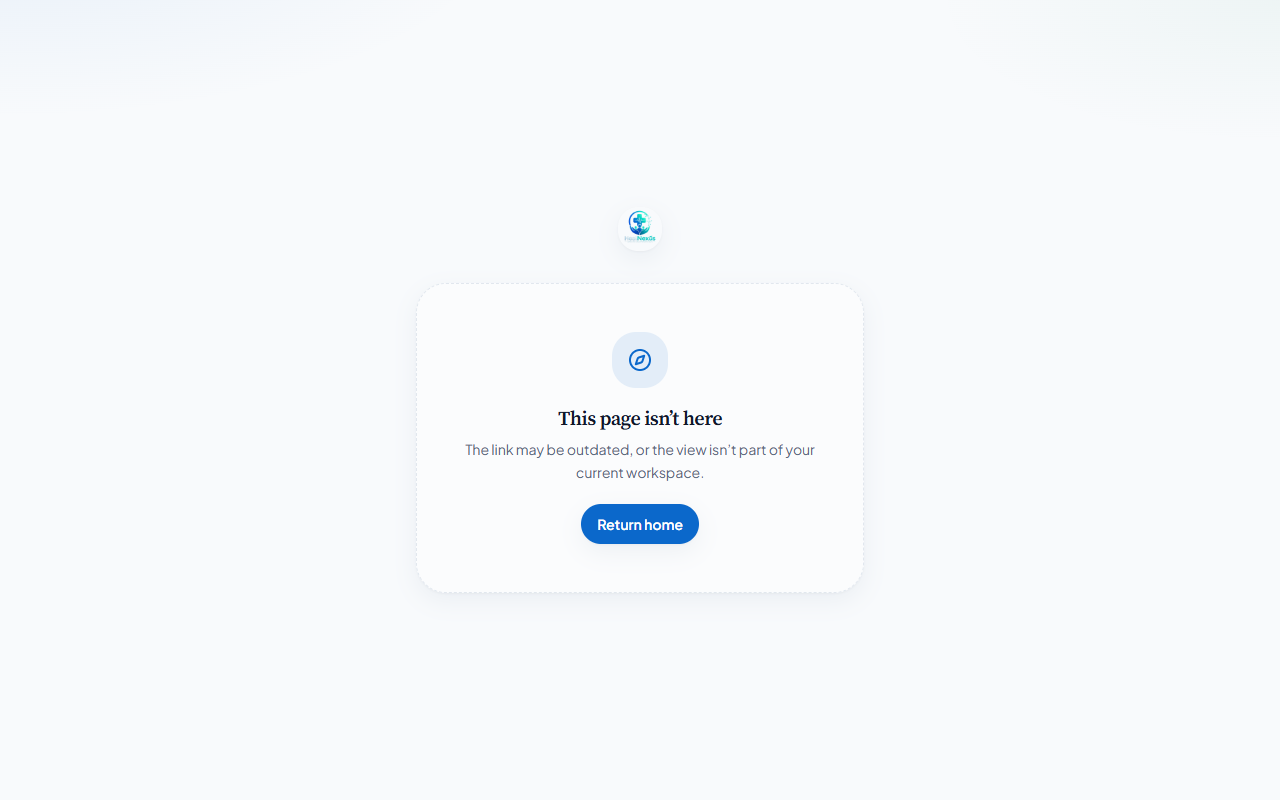
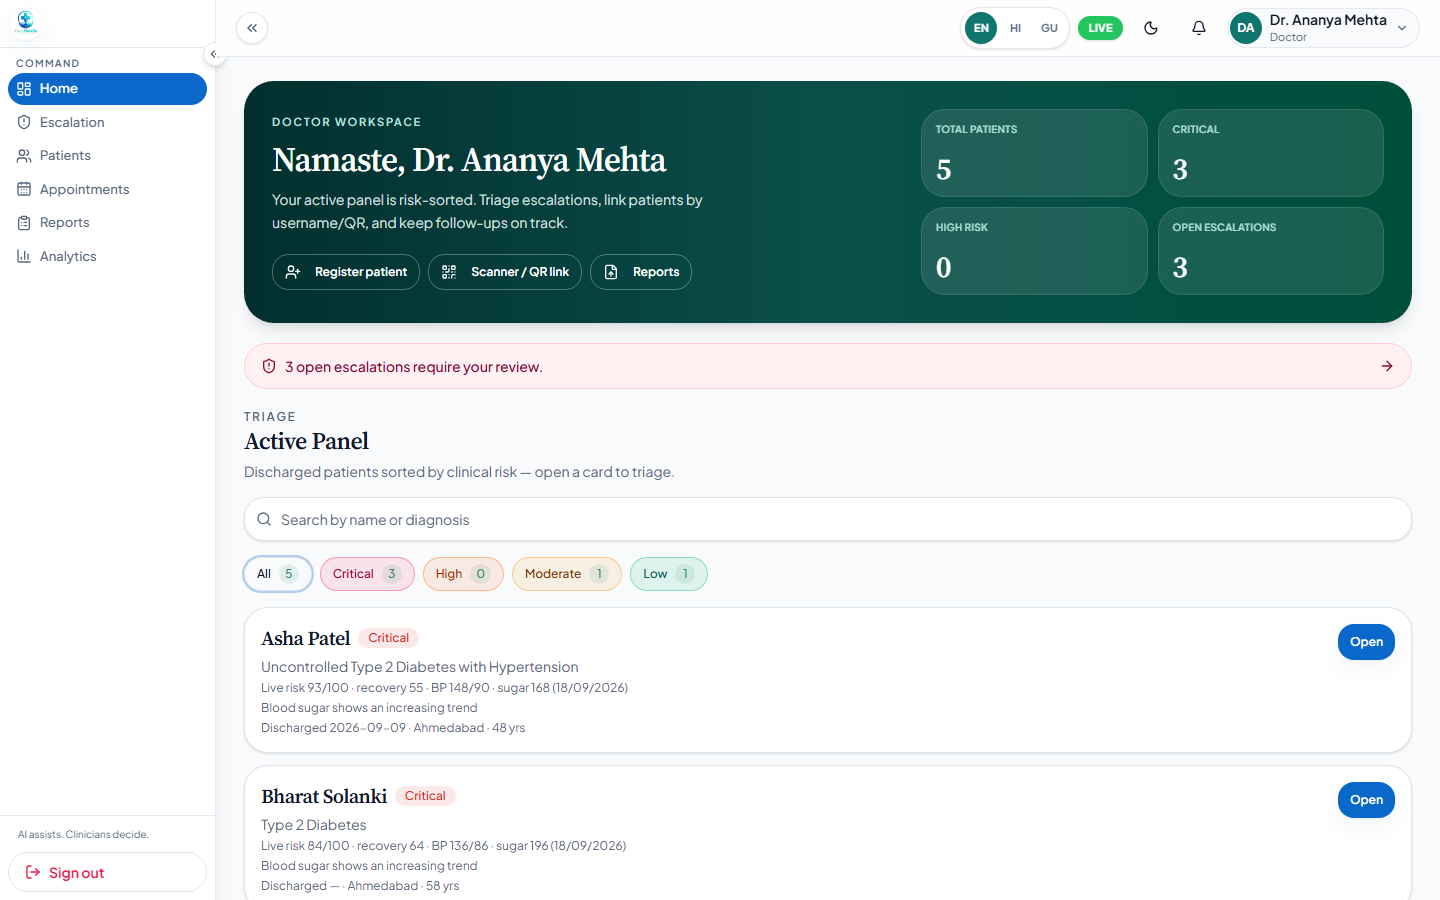
Refactor: Update healthcare UI assets, README, and pricing styles

diff --git a/webapp/src/modules/marketing/components/pricing.tsx b/webapp/src/modules/marketing/components/pricing.tsx
@@ -115,14 +115,14 @@ export function PricingSection() {
         <div className="pointer-events-none absolute inset-0 bg-[radial-gradient(ellipse_70%_50%_at_15%_-10%,rgba(37,99,235,0.12),transparent_55%),radial-gradient(ellipse_50%_40%_at_90%_0%,rgba(20,184,166,0.10),transparent_50%)]" />
         <div className="relative mx-auto max-w-6xl px-4 text-center sm:px-6">
           <p className="text-xs font-semibold uppercase tracking-[0.16em] text-[#14B8A6]">
-            Healthcare continuity should be accessible to everyone.
+            Every home, every village.
           </p>
           <h1 className="font-display mx-auto mt-3 max-w-3xl text-4xl font-bold tracking-tight text-[#0F172A] sm:text-5xl">
-            Healthcare that stays with you.
+            Healthcare that reaches beyond boundaries.
           </h1>
           <p className="mx-auto mt-4 max-w-2xl text-base text-[#64748B] sm:text-lg">
-            Affordable continuity-of-care support for patients, families and
-            healthcare organizations.
+            Affordable continuity-of-care for patients, families, and
+            healthcare organizations — from the ward to the village.
           </p>
           <p className="mx-auto mt-3 max-w-2xl text-sm leading-relaxed text-[#64748B]">
             From daily care and medication reminders to AI-powered assistance

diff --git a/README.md b/README.md
@@ -1,10 +1,12 @@
 <div align="center">
 
+<img src="webapp/public/logo.png" alt="HealNexus" width="88" />
+
 # HealNexus
 
-**Healthcare that stays with you — after discharge.**
+### Healthcare that reaches beyond boundaries.<br/>Every home, every village.
 
-AI-powered continuity of care for patients, families, doctors, and rural health workers.
+From hospitals to homes, cities to villages — one care graph for doctors, patients, caregivers, and rural health workers. **AI assists. Clinicians decide.**
 
 [![TypeScript](https://img.shields.io/badge/TypeScript-3178C6?style=for-the-badge&logo=typescript&logoColor=white)](https://www.typescriptlang.org/)
 [![React](https://img.shields.io/badge/React_19-087EA4?style=for-the-badge&logo=react&logoColor=white)](https://react.dev/)
@@ -12,7 +14,38 @@ AI-powered continuity of care for patients, families, doctors, and rural health 
 [![FastAPI](https://img.shields.io/badge/FastAPI-009688?style=for-the-badge&logo=fastapi&logoColor=white)](https://fastapi.tiangolo.com/)
 [![Python](https://img.shields.io/badge/Python-3776AB?style=for-the-badge&logo=python&logoColor=white)](https://www.python.org/)
 
-[Quick start](#quick-start) · [Demo logins](#five-minute-demo) · [Architecture](#system-architecture) · [Deploy](#deploy) · [Safety](#clinical-safety)
+[![EN · HI · GU](https://img.shields.io/badge/Languages-EN%20·%20HI%20·%20GU-0F766E?style=flat-square)](#features)
+[![Safety](https://img.shields.io/badge/AI-assists%2C%20never%20prescribes-2563EB?style=flat-square)](#clinical-safety)
+[![Demo](https://img.shields.io/badge/Demo-no%20API%20keys%20required-22C55E?style=flat-square)](#five-minute-demo)
+
+**[Quick start](#quick-start)** · **[5-minute demo](#five-minute-demo)** · **[Architecture](#system-architecture)** · **[Deploy](#deploy)**
+
+<br/>
+
+<img src="assets/screenshot-landing.png" alt="HealNexus landing — healthcare that reaches beyond boundaries" width="920" />
+
+<sub>Landing — the same continuity thread from Civil Hospital OPD to a Sanand village home visit.</sub>
+
+<br/>
+
+<table>
+<tr>
+<td width="50%" align="center">
+<img src="assets/screenshot-dashboard.png" alt="Doctor workspace — live risk-sorted Active Panel" />
+<br/>
+<sub><b>Doctor</b> · live risk, recovery, escalations</sub>
+</td>
+<td width="50%" align="center">
+<img src="assets/screenshot-patient.png" alt="Patient Today dashboard" />
+<br/>
+<sub><b>Patient</b> · Today’s care, same scores</sub>
+</td>
+</tr>
+</table>
+
+<img src="assets/screenshot-rural.png" alt="Rural Field Care for health workers" width="920" />
+
+<sub>Field Care — screening, visits, and offline sync. Language lives in the navbar only (EN / HI / GU).</sub>
 
 </div>
 
@@ -27,53 +60,19 @@ This repo is a **working MVP** — not a slide deck. Role portals, live recovery
 
 ---
 
-## Table of contents
+## Why HealNexus
 
-1. [Problem](#problem)
-2. [Solution](#solution)
-3. [Features](#features)
-4. [Pricing model](#pricing-model)
-5. [Tech stack](#technology-stack)
-6. [Architecture](#system-architecture)
-7. [APIs](#apis)
-8. [Database](#database)
-9. [Setup & run](#quick-start)
-10. [Deploy](#deploy)
-11. [Secrets](#secrets--credentials)
-12. [AI disclosure](#ai-tools-disclosure)
-13. [Originality](#originality)
+Hospitals lose the patient at the gate. After discharge, medicines are missed, vitals drift, labs go overdue, and rural families cannot always reach the same OPD. Doctors see **static labels**. ASHA / ANM workers work from paper.
 
----
-
-## Problem
-
-Hospitals lose the patient at the gate. After discharge, medicines are missed, vitals drift, labs go overdue, and rural families cannot always reach the same OPD. Doctors see **static labels**. Caregivers and ASHA / ANM workers work from paper.
-
-**India-shaped gaps this MVP targets** (Ahmedabad / Gujarat demo):
-
-| Gap | What breaks |
-| --- | --- |
-| Post-discharge follow-up | Diabetes, hypertension, COPD, surgery recovery |
-| Language | English, Hindi, Gujarati in the same product |
+| Gap | What this MVP closes (Ahmedabad / Gujarat demo) |
+| :---: | --- |
+| Follow-up | Diabetes, hypertension, COPD, surgery recovery on one thread |
+| Language | English, Hindi, Gujarati — same safety rails |
 | Rural path | Village PHC → CHC → district hospital |
-| Offline | Health identity when the network drops |
+| Offline | Health Card / passport when the network drops |
 | Trust | Assistive AI that **does not** impersonate a doctor |
 
----
-
-## Solution
-
-One continuity thread for **patient · family · doctor · health worker**.
-
-| Layer | Role in this MVP |
-| --- | --- |
-| **`webapp/`** | React 19 + Vite + TypeScript — five roles, marketing site, `/pricing` |
-| **Local store** | Browser `localStorage` seed (Ahmedabad + villages). **Enough to judge the prototype.** |
-| **Rule engines** | Recovery score, readmission risk, disease progression, alerts from live check-ins |
-| **`ai-service/`** | Optional FastAPI — Care Companion, visit brief, health assistant, medicine extract |
-| **`supabase/`** | Optional Postgres + RLS — **not required** to demo |
-
-When a check-in, missed dose, or overdue lab changes, **the doctor list and the patient Recovery page show the same numbers.**
+**One continuity graph:** patient · family · doctor · health worker. When a check-in, missed dose, or overdue lab changes, **the doctor list and the patient Recovery page show the same numbers.**
 
 ```mermaid
 flowchart LR
@@ -96,29 +95,37 @@ flowchart LR
   W -.-> A
 ```
 
+| Layer | What you are judging |
+| --- | --- |
+| **`webapp/`** | React 19 + Vite + TypeScript — five roles, marketing, `/pricing` |
+| **Local store** | Browser `localStorage` seed (Ahmedabad + villages) |
+| **Rule engines** | Recovery, readmission risk, progression, alerts from live check-ins |
+| **`ai-service/`** | Optional FastAPI — companion, visit brief, assistant, medicine extract |
+| **`supabase/`** | Optional Postgres + RLS — **not required** to demo |
+
 ---
 
 ## Features
 
 Sign in on `/login` with **live role buttons**, or User ID + `demo123`.
 
-| You can try | Where | Built by |
-| --- | --- | --- |
-| Live risk + recovery caseload | Doctor → Patients / Active Panel | Original rules + UI |
-| Today dashboard + Recovery | Patient → Today / Recovery | Original |
-| Check-in, medicines, care plan | Patient modules | Original |
-| Talk to HealNexus | Patient → companion | Original orchestration; optional Exa + OpenRouter |
-| AI Doctor Visit Brief | Doctor patient record | Original context; optional LLM |
-| Medicine camera scanner | Patient → Scan | Original UI; optional extract |
-| Nearest care (PHC, shop, lab) | Patient → Get help | Original catalogue + **Leaflet / OSM** |
-| Offline Health Card / Passport QR | Patient → Passport | Original |
-| Family / caregiver alerts | Priya · Caregiver | Original |
-| Village home visits | Kavita · Health Worker | Original seed |
-| EN / HI / GU | Language switcher | Original dictionaries |
-| Pricing (B2C + B2B + sponsored) | `/pricing` | Original marketing page |
+| Try this | Where |
+| --- | --- |
+| Live risk + recovery caseload | Doctor → Home / Active Panel |
+| Today dashboard + Recovery | Patient → Today / Recovery |
+| Check-in, medicines, care plan | Patient modules |
+| Talk to HealNexus | Patient companion · optional Exa + OpenRouter |
+| AI Doctor Visit Brief | Doctor patient record · optional LLM |
+| Medicine camera scanner | Patient → Scan · optional extract |
+| Nearest care (PHC, shop, lab) | Patient → Get help · Leaflet / OSM |
+| Offline Health Card / Passport QR | Patient → Passport |
+| Family alerts | Priya · Caregiver |
+| Village home visits & screening | Kavita · Health Worker |
+| EN / HI / GU | Navbar language switcher |
+| Pricing (B2C + B2B + sponsored) | `/pricing` |
 
 **No keys:** portals, scores, OSM maps, passport, check-ins, villages.  
-**With AI service:** grounded assistant and LLM drafts. Without keys, those calls fail closed — the rest still runs.
+**With AI service:** grounded assistant and LLM drafts. Without keys those calls fail closed — the rest still runs.
 
 ---
 
@@ -131,22 +138,13 @@ Presentation only (`webapp/src/modules/marketing/pricing-config.ts`) — **not b
 | Individual | **₹0** / **₹99**/mo | Free everyday care · Care = personal AI |
 | Family | **₹199**/mo | Up to 5 members |
 | Hospitals | **₹4,999+** / Custom | Proposed SaaS — labelled as proposed |
-| Communities | Sponsored | NGOs / CSR / public health *potential* deploy — no fake gov partnerships |
+| Communities | Sponsored | NGOs / CSR / public health *potential* — no fake gov partnerships |
 
 ---
 
 ## Technology stack
 
-### This team built
-
-- Role modules (patient, doctor, caregiver, health worker, admin, identity)
-- Local store + Ahmedabad / village seed
-- In-app health intelligence (`webapp/src/lib/health-engine`, `clinical-risk.ts`)
-- FastAPI Care Companion orchestration + safety copy
-- Custom EN / HI / GU dictionaries
-- Marketing + pricing UX
-
-### Third-party (not our trained models)
+**This team built:** role modules (patient, doctor, caregiver, health worker, admin, identity) · Ahmedabad / village seed · in-app health intelligence (`health-engine`, `clinical-risk.ts`) · FastAPI Care Companion orchestration + safety copy · custom EN / HI / GU dictionaries · marketing + pricing UX.
 
 | Piece | Terms | Use |
 | --- | --- | --- |
@@ -160,7 +158,7 @@ Presentation only (`webapp/src/modules/marketing/pricing-config.ts`) — **not b
 | **Exa** | Vendor ToS | Server-side medical **search** |
 | **OpenRouter** | Vendor + model ToS | Server-side LLM **synthesis** |
 
-Demo patients and village coordinates are **synthetic / curated**. Scores are **explainable rules**, not a production XGBoost we trained. We do **not** claim OSM, Exa, or OpenRouter as team-built models.
+Demo patients and village coordinates are **synthetic / curated**. Scores are **explainable rules**, not a production model we trained. We do **not** claim OSM, Exa, or OpenRouter as team-built models.
 
 ---
 
@@ -195,6 +193,7 @@ HealNexus/
 ├── webapp/                 # MVP UI, store, engines, /pricing
 ├── ai-service/             # Optional FastAPI
 ├── supabase/migrations/    # Optional SQL
+├── assets/                 # Product screenshots
 ├── docs/                   # SRS
 └── README.md
 ```
@@ -206,7 +205,7 @@ HealNexus/
 Interactive docs: [http://127.0.0.1:8001/docs](http://127.0.0.1:8001/docs) when the AI service is up.
 
 <details>
-<summary><strong>Endpoint list</strong> (click to expand)</summary>
+<summary><strong>Endpoint list</strong></summary>
 
 | Method | Path | Purpose |
 | --- | --- | --- |
@@ -230,7 +229,7 @@ Demo **CRUD is the local store**, not a public REST API. `VITE_AI_API_BASE_URL` 
 ## Database
 
 **Default (zero install):** `localStorage` key `healnexus-dynamic-store-v2` · seed in `webapp/src/data/store/seed.ts`.  
-`demo123` is a **public demo password**, not a production secret. Hard-refresh after a pull if seed version bumped.
+`demo123` is a **public demo password**, not a production secret. Hard-refresh after a pull if the seed version bumped.
 
 **Optional:** `supabase/migrations/` → project URL + **anon** key on the webapp. Service role never in GitHub / never in Vite.
 
@@ -276,7 +275,7 @@ python -m uvicorn app.main:app --host 127.0.0.1 --port 8001
 ## Five-minute demo
 
 1. `cd webapp && npm install && npm run dev`
-2. **Dr. Ananya · Doctor** → Patients: live Recovery + risk, village rows
+2. **Dr. Ananya · Doctor** → Home: live Recovery + risk, village rows
 3. Sign out → **Asha · Patient** → Today / Recovery: **same scores**
 4. Get help → nearest PHC / pharmacy
 5. Optional: AI service → Talk to HealNexus
@@ -332,7 +331,7 @@ HealNexus is an original continuity-of-care product in this repository. Third-pa
 
 <div align="center">
 
-**Healthcare continuity for everyone** — free to start, affordable to upgrade, scalable for hospitals.
+**Healthcare that reaches beyond boundaries** — every home, every village.
 
 *AI assists. Clinicians decide.*
 
